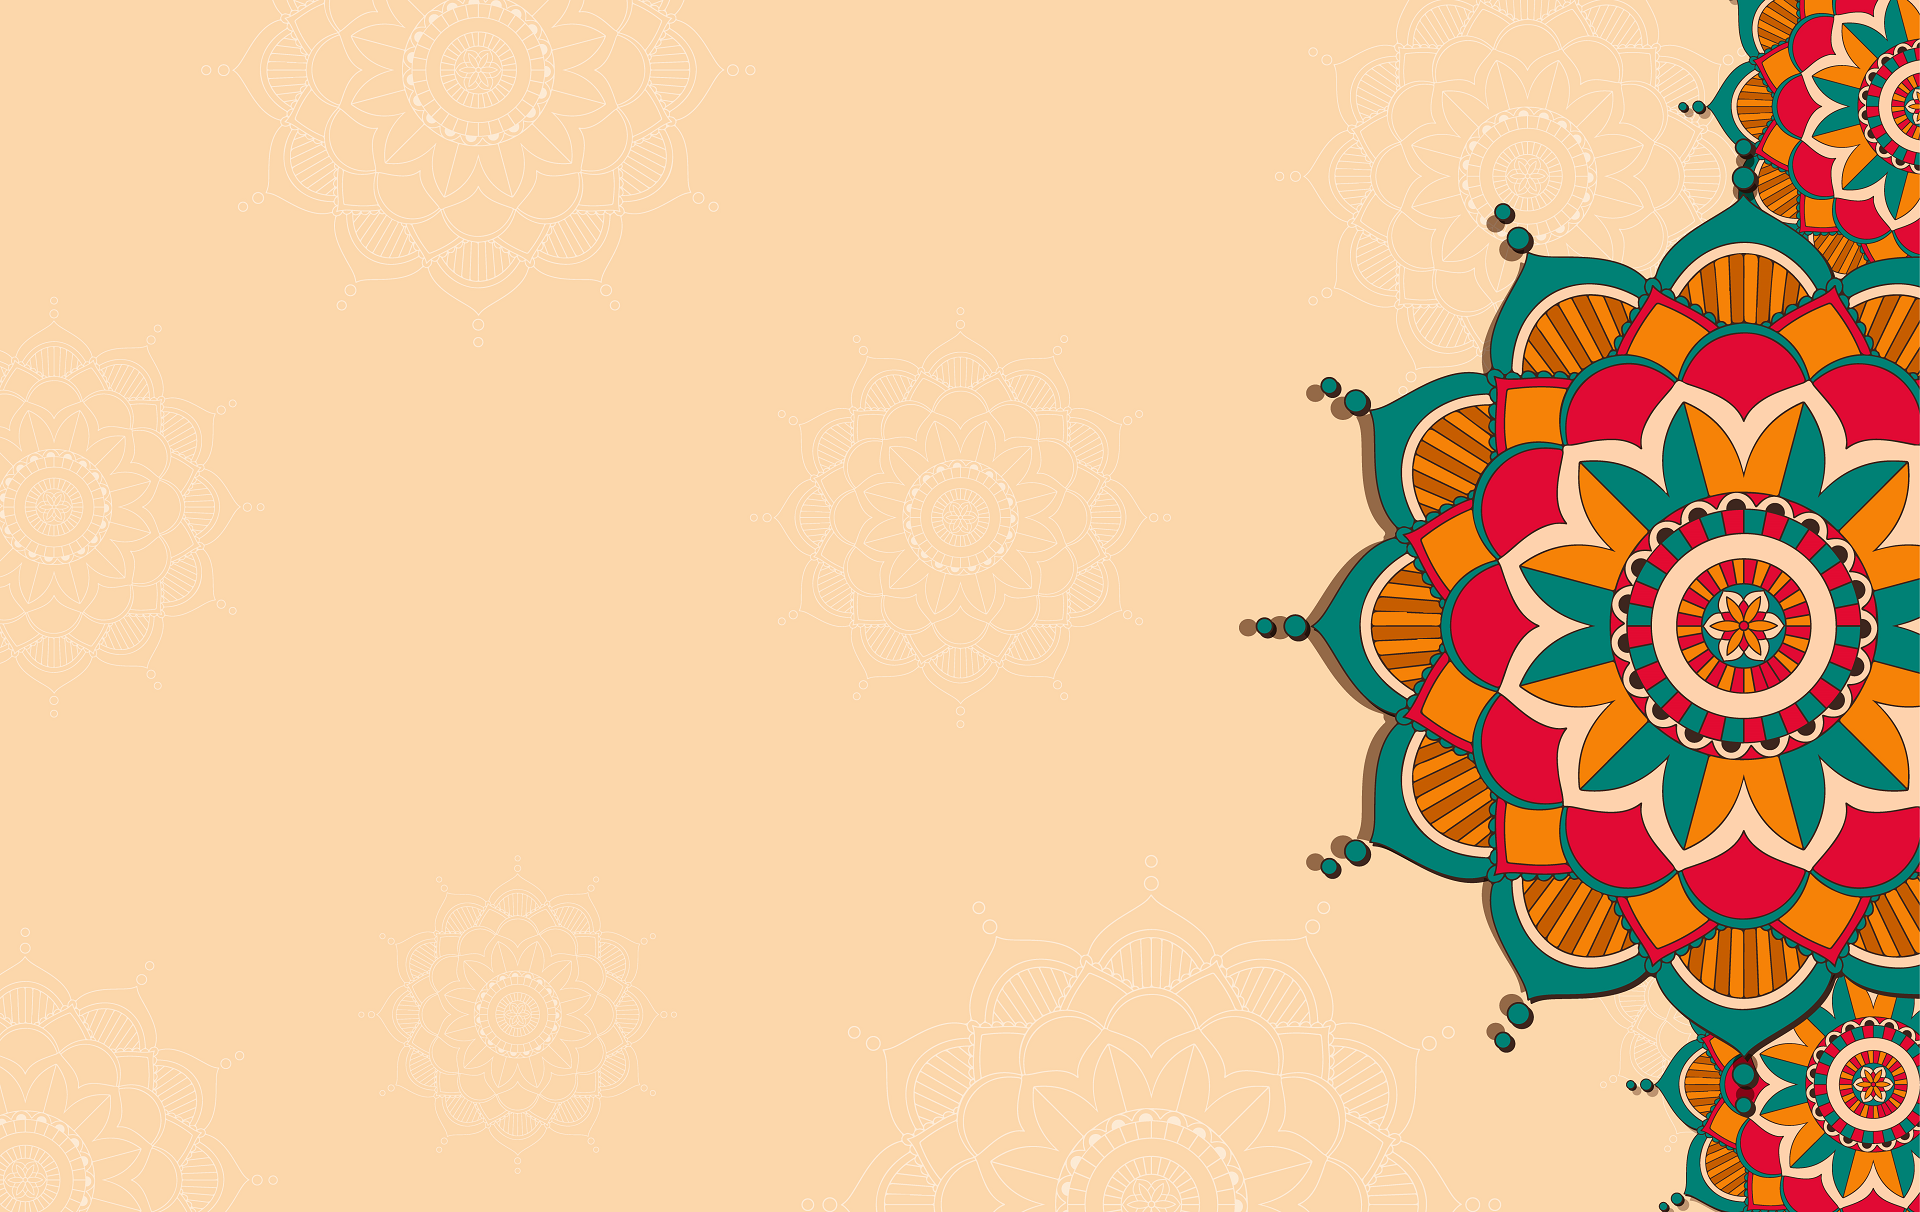
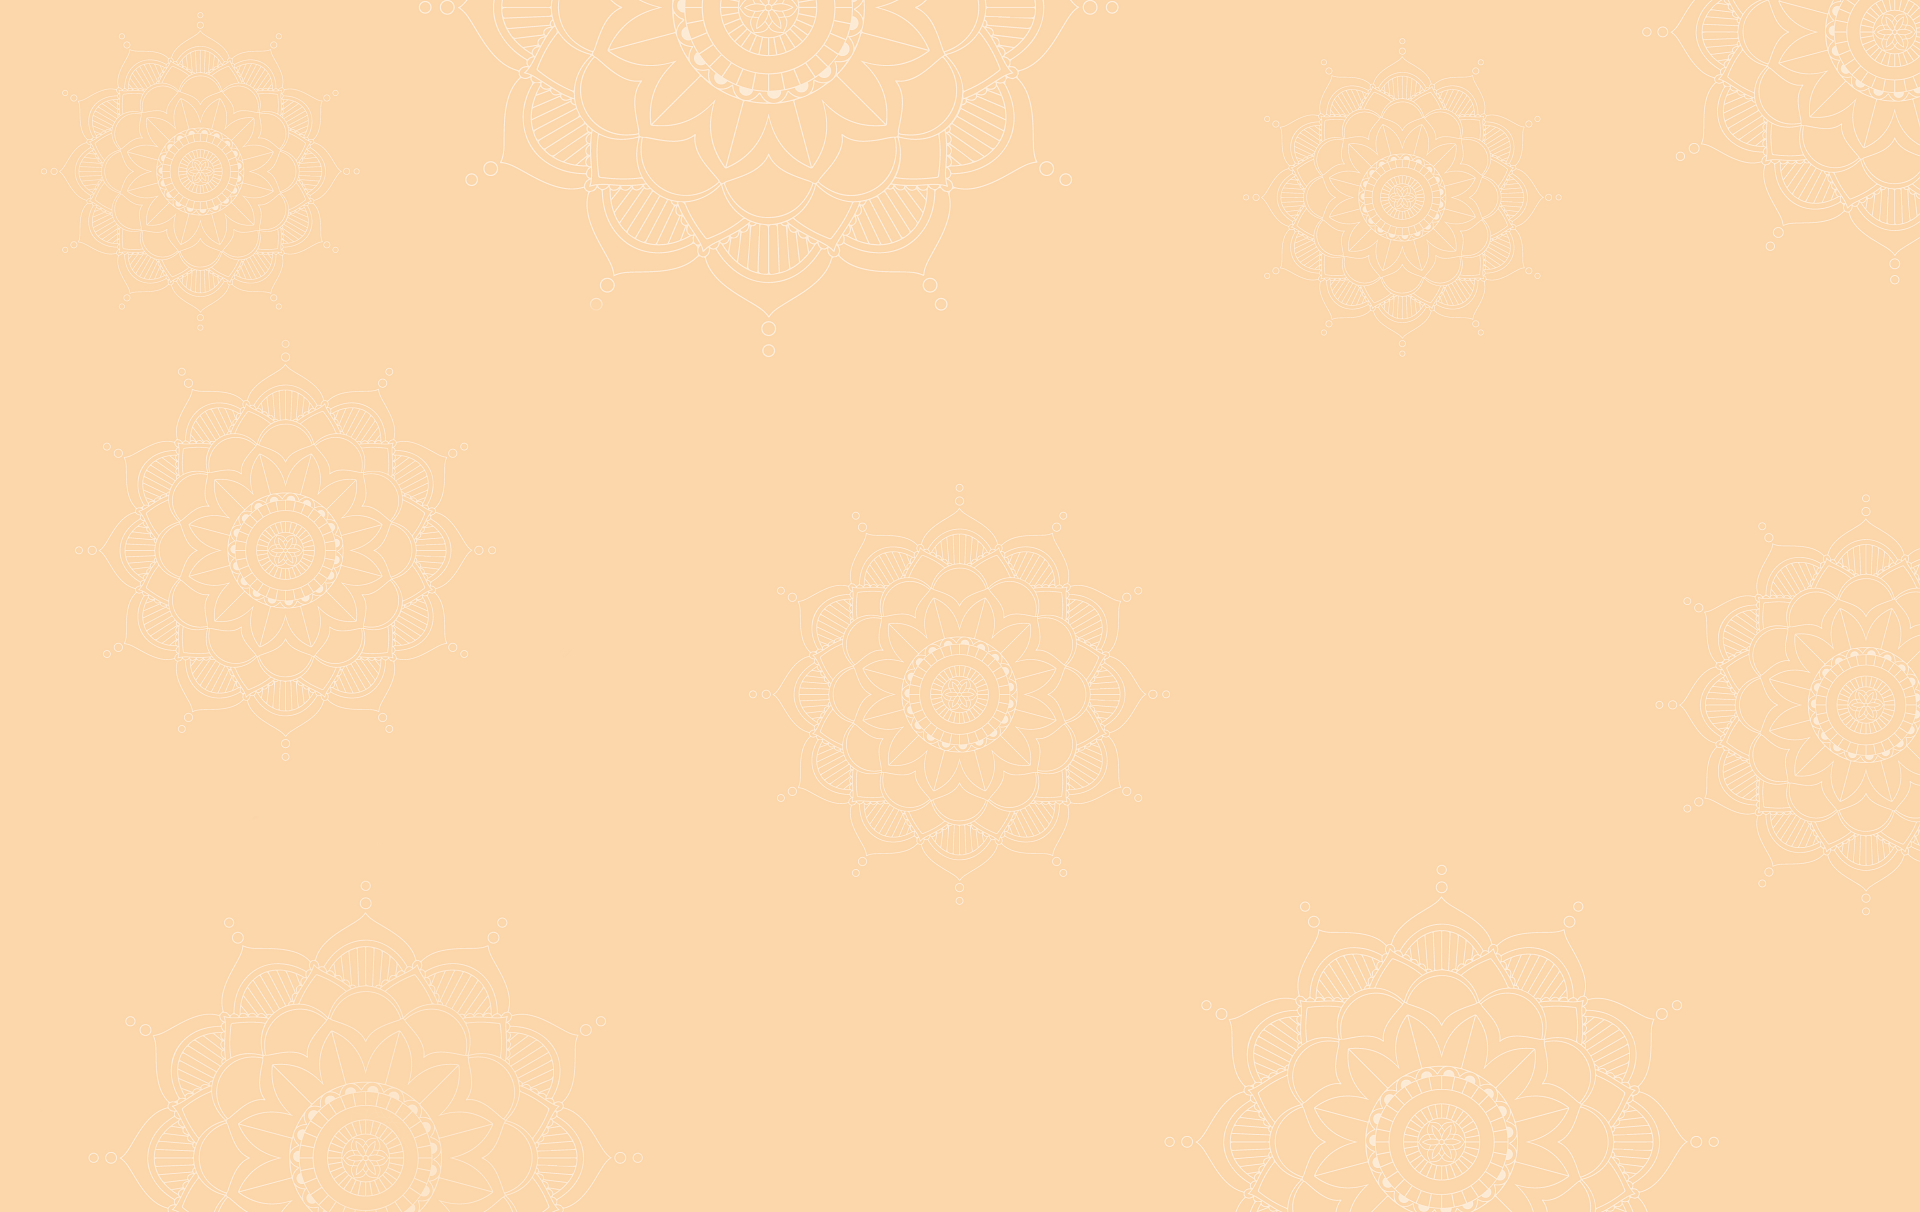
landing page updated

diff --git a/style.css b/style.css
@@ -5,10 +5,14 @@
   box-sizing: border-box;
   font-family: "Poppins", sans-serif;
 }
+body::-webkit-scrollbar{
+  display: none;
+}
 /* ----------------- Landing Page Sction Start --------------------------- */
 /* -------------- Landing Page Logo Section Start ------------ */
 .landing_page {
-  background: url(./Assets/bg4.png) no-repeat;
+  background: url(./Assets/bg5.jpg
+  ) no-repeat;
   background-position: center;
   background-size: cover;
   height: 100vh;
@@ -32,12 +36,14 @@
   text-align: center;
   color: #E10A34;
   text-shadow:1px 2px 3px rgba(255, 0, 0, 0.4);
+  cursor: default;
 }
 .landing_page .logo_wrapper h2 span {
   color: #008175;
   font-size: 1rem;
   text-shadow:1px 2px 3px rgb(0, 128, 115,.5);
   /* border-bottom: 1px solid red; */
+  cursor: default;
 }
 /* -------------- Landing Page Logo Section End ------------- */
 
@@ -47,12 +53,14 @@ marquee h2 {
   font-weight: 300;
   color: #eeff00;
   text-shadow: 1px 1px 3px rgba(224, 10, 53, 0.9);
+  cursor: default;
 }
 marquee h2 span {
   color: #E10A34;
   font-size: 1.2rem;
   font-weight: 400;
-  text-shadow:1px 0 3px rgba(238, 255, 0, 0.7)
+  text-shadow:1px 0 3px rgba(238, 255, 0, 0.7);
+  cursor: default;
 }
 
 /* -------------- Headline text section start --- */
@@ -181,6 +189,22 @@ marquee h2 span {
 }
 /* ------- Heading Text Section End --------- */
 
+/* ----------- Moving Circle Start ------------ */
+.circle{
+  width: 25px;
+  height: 25px;
+  position: absolute;
+  background-color:#e60041;
+  border-radius: 50%;
+  border: none;
+  opacity:.3;
+  pointer-events: none;
+  box-shadow: 0 0 10px 2px #00e1ff;
+  transform: translate(-50%,-50%);
+  z-index: 99999;
+}
+/* ----------- Moving Circle End ------------- */
+
 /* ----------- Swiper Image Slider ---------------- */
 .image_slider_container{
     /* border: 1px solid blue; */
@@ -285,6 +309,22 @@ marquee h2 span {
     box-shadow: 1px 1px 15px 2px rgba(255, 0, 0, 0.4),1px 1px 15px 2px rgba(255, 0, 0, 0.4);
 }
 
+/* ------------- Header Section Start --------------- */
+/* ----------- Navigation Section Start ----------- */
+header nav {
+  background-color: rgb(255, 230, 0);
+}
+header nav .nav_logo{
+  background-color: green;
+  display: flex;
+  flex-direction: row;
+  align-items: center;
+  width: 20%;
+}
+header nav .nav_logo img{
+  max-width: 4rem;
+  margin: 0.5rem 0.5rem 0 2rem;
+}
 
 
 /* ------------ Responsive Section ------------- */

diff --git a/index.html b/index.html
@@ -105,6 +105,21 @@
         </div>
       </div>
     </section>
+    <!-- --------------- Header Section Start ------------------- -->
+    <!-- ------------- Moving Circle Start --------- -->
+    <div class="circle">
+    </div>
+    <!-- ------------- Moving Circle End --------- -->
+    <header>
+      <!-- ----------- Navigation Section Start ------- -->
+      <nav>
+        <div class="nav_logo">
+          <img src="./Assets/logo.png" alt="nav_logo">
+          <h2>Shadow Studio<br /><span class="nav_logo_text">Photography</span></h2>
+        </div>
+      </nav>
+      <!-- ---------- Navigation Section End ------------- -->
+    </header>
     <!-- ----- Swiper Js CDN ------------ -->
     <script src="https://cdn.jsdelivr.net/npm/swiper@11/swiper-bundle.min.js"></script>
     <script src="./index.js"></script>

diff --git a/index.js b/index.js
@@ -7,7 +7,7 @@ var swiper = new Swiper(".mySwiper", {
     autoplay: {
         delay: 2500,
         disableOnInteraction: false,
-      },
+    },
     slidesPerView: "auto",
     coverflowEffect: {
         rotate: 0,
@@ -22,3 +22,20 @@ var swiper = new Swiper(".mySwiper", {
     }
 });
 // ------ Swiper Js End -----------------
+
+// --------- Moving Circle Start ----------
+
+const dot = document.querySelector('.circle')
+document.addEventListener("mousemove", (e) => {
+    let x = e.pageX;
+    let y = e.pageY;
+
+    dot.style.top = y + "px";
+    dot.style.left = x + "px";
+    dot.style.display = "block";
+})
+document.addEventListener("mouseout", () => {
+    dot.style.display = "none";
+})
+
+// ------- Moving Circle End -
